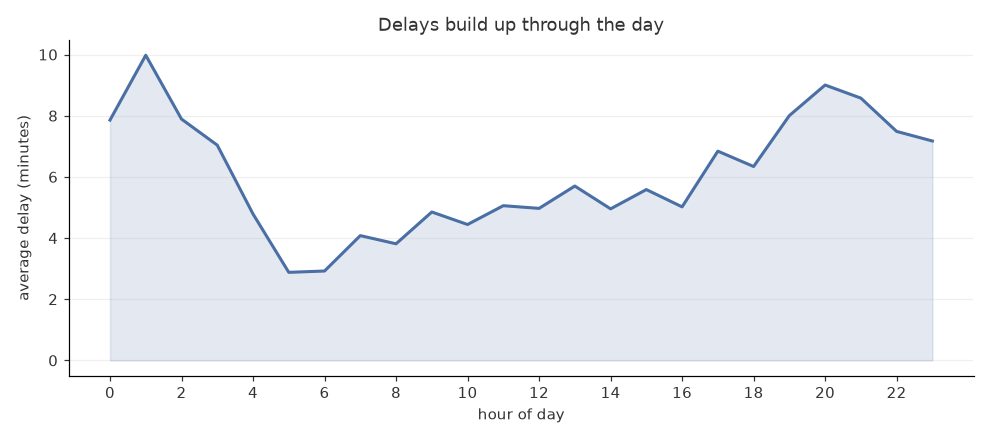
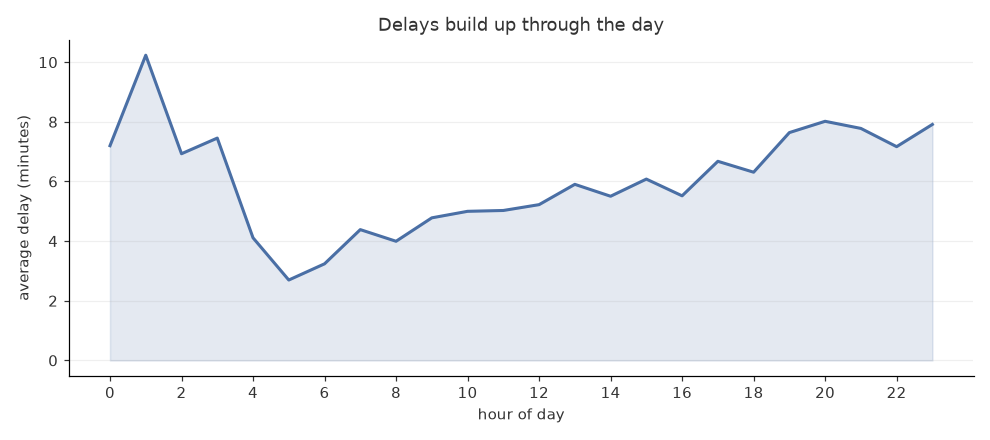
Final numbers after a week of collecting
36,314 stops from 17 to 23 September. Collection stopped at 96% of expected
rounds, or 99.5% after the first afternoon.

diff --git a/README.md b/README.md
@@ -2,7 +2,7 @@
 
 Deutsche Bahn shows what its trains are doing right now, and a few minutes
 later that information is gone. I wanted to know how late trains actually
-are, so I started saving it every two minutes.
+are, so I saved it every two minutes for a week.
 
 Eight stations in the south: Freiburg, Stuttgart, Karlsruhe, Mannheim,
 Munich, Nuremberg, Ulm, Heidelberg.
@@ -15,20 +15,20 @@ morning. Late trains make the next train late, and it only resets overnight.
 
 ![Delay by hour](charts/delay_by_hour.png)
 
-Which station you are at matters more than I expected. Freiburg is under
-three minutes on average, Munich is eight.
+Which station you are at matters more than I expected. Freiburg is on time
+80% of the time, Stuttgart 64%.
 
 ![Delay by station](charts/delay_by_station.png)
 
-Most trains are fine though. Three quarters are within five minutes. It is
-the four percent over half an hour that people remember.
+Most trains are fine though. Nearly three quarters are within five minutes.
+It is the four percent over half an hour that people remember.
 
 ![How delays are spread](charts/delay_spread.png)
 
-Night trains are the worst by a long way, around half an hour on average.
-ICE is about six minutes, S-Bahn under three.
+Night trains and long distance services are worst, around twenty minutes on
+average. S-Bahn trains stay under three.
 
-From 22,930 stops between 17 and 21 September 2026.
+From 36,314 stops collected between 17 and 23 September 2026.
 
 ## How it works
 
@@ -131,8 +131,13 @@ data source I found one that answered every request with a valid reply, a
 fresh timestamp, and no trains in it. Checking only the status code would
 have told me everything was fine while I saved nothing.
 
-So far 2,655 rounds out of 2,820. The missing hours are all from one
-afternoon before I stopped the laptop sleeping.
+4,005 rounds out of 4,170, so 96%. All the missing hours are from the first
+afternoon, before I stopped the laptop sleeping. After that it held 99.5%
+for five full days.
+
+There were also 37 replies that came back with status 200 and no trains in
+them, which is the same thing that made the first data source I tried
+useless.
 
 ## Tests
 
